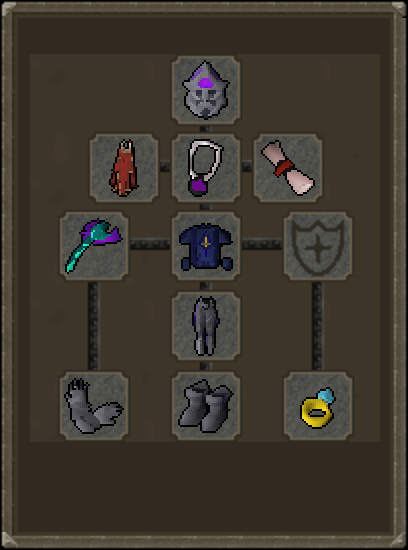
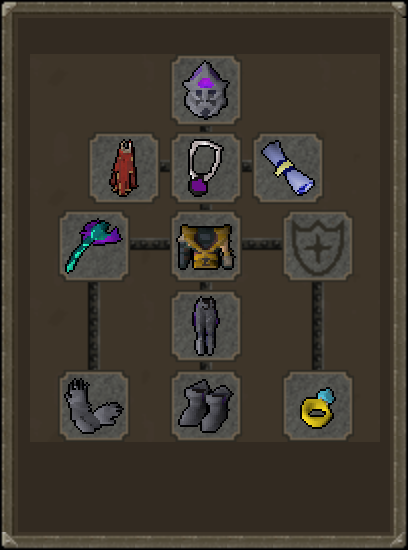
Update Master gear and FAQ

Changed region(s): [[0.4118, 0.4018, 0.5882, 0.4945], [0.6471, 0.2473, 0.7647, 0.3709]]

diff --git a/docs/bank/master.md b/docs/bank/master.md
@@ -13,10 +13,10 @@ icon: clue/master
     </div>
     <div class="right-container">
         <div class="half-container-top">
-            <img class="icon" src="../../icons/spellbook/standard.png" />
+            <img class="icon" src="../../icons/spellbook/lunar.png" />
         </div>
         <div class="half-container-bottom">
-            <img src="../images/pouch/standard.png" />
+            <img src="../images/pouch/lunar.png" />
         </div>
     </div>
 </div>
@@ -27,8 +27,16 @@ _Copy button is provided on the right_
 ```
 
 ## Notes
-- Based on your Cryptic step, swap zamorak godsword and/or bring additional items
+### Cryptic clues
+- Items assume the use of the ["3-stepping" method](https://discord.com/channels/922245627092541450/1233850882156789881/1235639466828234814) *See footer for Discord invite*
+- **ZGS**: If you do not have Ghommal Cryptic step, swap for next most useful item (e.g. QPC)
+- **Blessing**: Holy blessing is taken for spiritual mage Sherlock challenge. Swap as needed
+- **Body**: Masori is taken for DPS. Swap to a Blessed d'hide body as needed
+- **Hands** slot depends on Cryptic steps
+    - **If** Shilo Village furnace&rarr;Karamja gloves
+    - **Else If** Ghommal&rarr;Combat bracelet
+    - **Else** Abyssal bracelet
 
-## Video Reference
+## References
 [![[OSRS] Master Clue Juggling Guide ~ 15% time Save
 ](https://img.youtube.com/vi/HwnjCT3xF4k/0.jpg)](https://www.youtube.com/watch?v=HwnjCT3xF4k)

diff --git a/docs/faq.md b/docs/faq.md
@@ -32,3 +32,6 @@ Here are explanations for otherwise unclear hints
 | CARR      | Carrallanger |
 | ANNA      | Annakarl     |
 | GHOR      | Ghorrock     |
+
+## 2. Suicide Steps
+When using the Enchanted symbol to suicide in the wildy, kill two of the MA2 bosses and hand in the hearts. This allows you to spam click and damage yourself without delay.
